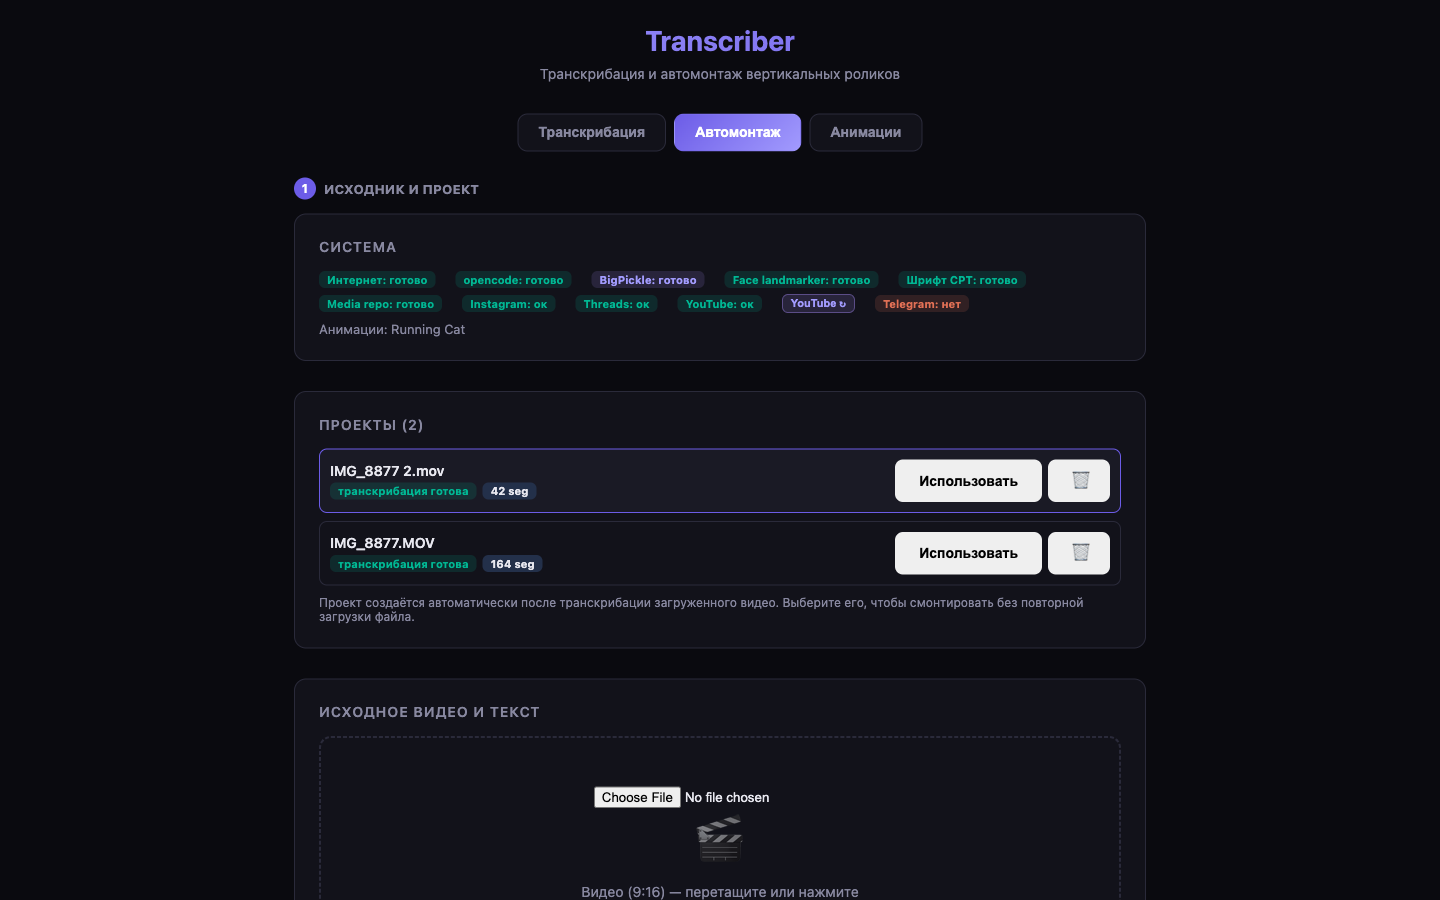
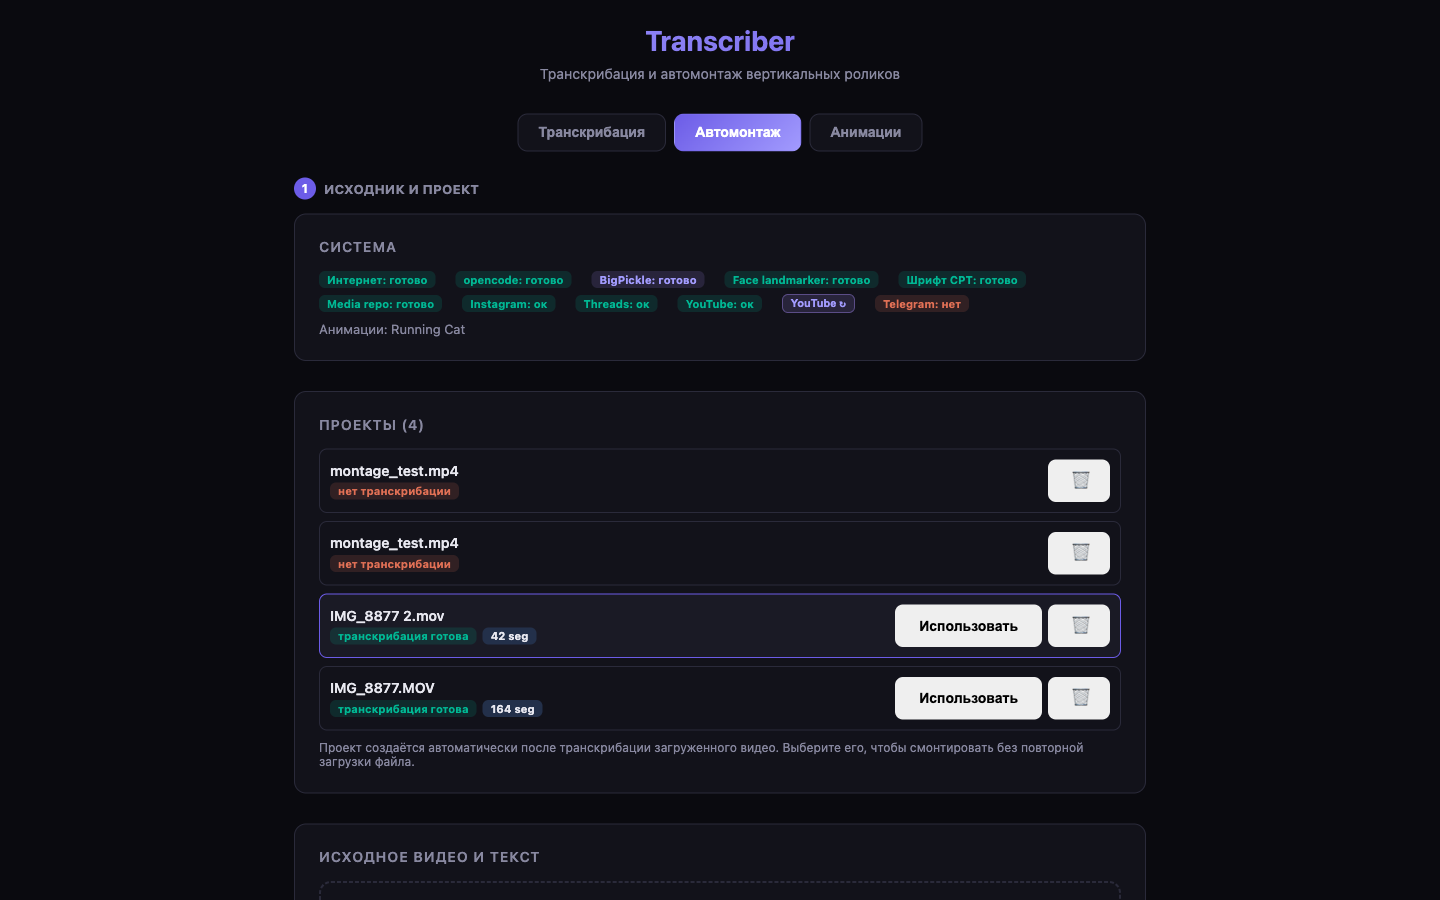
fix: phase-aware восстановление монтажа и общий прогресс без преждевременных 100%
- _finalize_montage_state(): синхронный терминальный переход (phase ready/ready_with_warnings,
  status done, progress 100). Общий прогресс достигает 100% только здесь.
- process_montage: на main_ready общий прогресс ограничен _MONTAGE_RENDER_PROGRESS_CAP (90),
  внутренний этап рендера может показывать 100%; фазы mirror/prepare/verify дают 93/96/98.
- _recover_montage_jobs: восстановление учитывает phase, mirror_variant и prepare_status.
  Прерванные mirror/prepare помечаются error + failed-снимок (без висящих running), готовые
  результаты сохраняются, полная готовность без запрошенных фаз не заявляется; добавлены
  фазовые предупреждения.
- Регрессионные тесты: перезапуск на main_ready/rendering_mirror/preparing_platform_variants/
  verifying_outputs; проверка прогресса < 100% на main_ready.

diff --git a/app.py b/app.py
@@ -1981,6 +1981,39 @@ def _recover_publish_outcomes(job: dict) -> None:
     job["publish_progress"] = progress
 
 
+_MONTAGE_RENDER_PROGRESS_CAP = 90.0
+
+
+def _finalize_montage_state(job: dict) -> list:
+    """Set the terminal unified-pipeline state on *job* (synchronous).
+
+    A failure of an optional phase (mirrored variant or platform preparation)
+    never hides the already-produced main result: it becomes a warning and the
+    job still reaches ``done`` so the main video stays usable (spec 4).  The
+    overall progress only reaches 100% here (spec 4), never at ``main_ready``.
+    Shared by the async ``_finalize_montage`` and server-restart recovery.
+    """
+    params = job.get("params") or {}
+    warnings = []
+    if params.get("prepare_mirrored") and not mirror_variant_ready(job):
+        reason = str((job.get("mirror_variant") or {}).get("error") or "").strip()
+        warnings.append("Отражённая версия не подготовлена" + (f": {reason}" if reason else ""))
+    if params.get("prepare_publish", True) and job.get("prepare_status") != "done":
+        reason = str(job.get("prepare_error") or "").strip()
+        label = (
+            "Подготовка файлов к публикации завершилась с ошибкой"
+            if reason else "Подготовка файлов к публикации не завершена"
+        )
+        warnings.append(label + (f": {reason}" if reason else ""))
+    job["warnings"] = warnings
+    job["phase"] = "ready_with_warnings" if warnings else "ready"
+    job["status"] = "done"
+    job["progress"] = 100
+    job["stage"] = "done"
+    job["detail"] = "Готово с предупреждениями" if warnings else "Готово"
+    return warnings
+
+
 def _recover_montage_jobs() -> None:
     root = MONTAGE_WORK.resolve()
     workdirs = sorted(
@@ -2012,14 +2045,35 @@ def _recover_montage_jobs() -> None:
                     result_path = (job.get("result") or {}).get("result_video")
                     has_result = bool(result_path) and Path(str(result_path)).is_file()
                     if has_result:
-                        # The render finished; publication (if any) was interrupted.
-                        job["status"] = "done"
-                        job["stage"] = "done"
-                        job["detail"] = "Публикация прервана перезапуском сервера"
+                        # The main render finished.  The unified pipeline may have
+                        # been interrupted inside an optional phase (mirrored
+                        # variant / platform preparation).  Mark only the
+                        # interrupted sub-operation as failed, keep every ready
+                        # artefact, and let ``_finalize_montage_state`` decide
+                        # readiness with warnings -- never claim full readiness
+                        # while a requested phase is incomplete (task: recovery
+                        # must be phase-aware, not result-video-only).
+                        mirror_state = job.get("mirror_variant")
+                        if isinstance(mirror_state, dict) and mirror_state.get("status") == "generating":
+                            mirror_msg = "Подготовка отражённой версии прервана перезапуском сервера"
+                            mirror_state = dict(mirror_state)
+                            mirror_state.update(status="error", error=mirror_msg, detail=mirror_msg)
+                            mirror_state["operation"] = failed_snapshot(mirror_state.get("operation"), mirror_msg)
+                            job["mirror_variant"] = mirror_state
+                        if job.get("prepare_status") == "running":
+                            prep_msg = "Подготовка файлов к публикации прервана перезапуском сервера"
+                            job["prepare_status"] = "error"
+                            job["prepare_error"] = prep_msg
+                            prepare_op = job.get("prepare_operation")
+                            if isinstance(prepare_op, dict):
+                                job["prepare_operation"] = failed_snapshot(prepare_op, prep_msg)
                         operation = job.get("operation")
                         if isinstance(operation, dict) and operation.get("status") in {"running", "pending"}:
                             job["operation"] = failed_snapshot(operation, message)
                         _recover_publish_outcomes(job)
+                        _finalize_montage_state(job)
+                        if job.get("publish_status") or job.get("publish_errors") or job.get("publish_unknown"):
+                            job["detail"] = "Публикация прервана перезапуском сервера"
                         _run_cleanup_safely(_cleanup_render_artifacts, recovered_id, job)
                         if not job.get("publish_errors") and not job.get("publish_unknown"):
                             _run_cleanup_safely(_cleanup_publish_artifacts, recovered_id, job)
@@ -2167,22 +2221,7 @@ async def _finalize_montage(job_id: str) -> None:
         return
     if job.get("status") == "error":
         return
-    params = job.get("params") or {}
-    warnings = []
-    if params.get("prepare_mirrored") and not mirror_variant_ready(job):
-        reason = str((job.get("mirror_variant") or {}).get("error") or "").strip()
-        warnings.append("Отражённая версия не подготовлена" + (f": {reason}" if reason else ""))
-    if params.get("prepare_publish", True) and job.get("prepare_status") == "error":
-        reason = str(job.get("prepare_error") or "").strip()
-        warnings.append(
-            "Подготовка файлов к публикации завершилась с ошибкой" + (f": {reason}" if reason else "")
-        )
-    job["warnings"] = warnings
-    job["phase"] = "ready_with_warnings" if warnings else "ready"
-    job["status"] = "done"
-    job["progress"] = 100
-    job["stage"] = "done"
-    job["detail"] = "Готово с предупреждениями" if warnings else "Готово"
+    warnings = _finalize_montage_state(job)
     _save_montage_job(job_id)
     await broadcast_progress(job_id, 100, "done", job["detail"])
     if warnings:
@@ -2196,7 +2235,14 @@ async def process_montage(job_id: str, params: dict):
     loop = asyncio.get_running_loop()
     try:
         job["status"] = "processing"
-        progress = _threaded_progress(loop, job_id)
+        raw_progress = _threaded_progress(loop, job_id)
+
+        def progress(pct, stage, detail=""):
+            # Reserve headroom for the automatic phases that follow the main
+            # render (mirroring / platform preparation): the overall job only
+            # reaches 100% in ``_finalize_montage`` (spec 4).
+            capped = min(max(float(pct or 0), 0.0), _MONTAGE_RENDER_PROGRESS_CAP)
+            raw_progress(capped, stage, detail)
 
         await _montage_announce(job_id, "Проверка установленных компонентов...")
         status = montage_engine.montage_status()
@@ -2287,13 +2333,16 @@ async def process_montage(job_id: str, params: dict):
         # prematurely (spec section 4).  The main MP4 is already available.
         job["status"] = "processing"
         job["phase"] = "main_ready"
-        job["progress"] = 100
+        # The overall job must NOT reach 100% while the mirrored variant and the
+        # platform preparation still run; only ``_finalize_montage`` may do that
+        # (spec 4).  The internal main-render stage may still show 100%.
+        job["progress"] = _MONTAGE_RENDER_PROGRESS_CAP
         job["stage"] = "main_ready"
         job["detail"] = "Основной ролик готов"
         job["result"] = meta
         _save_montage_job(job_id)
         _run_cleanup_safely(_cleanup_render_artifacts, job_id, job)
-        await broadcast_progress(job_id, 100, "main_ready", "Основной ролик готов")
+        await broadcast_progress(job_id, _MONTAGE_RENDER_PROGRESS_CAP, "main_ready", "Основной ролик готов")
         await _montage_announce(job_id, f"Основной ролик готов: {Path(meta['result_video']).name} ({(os.path.getsize(meta['result_video']) >> 20)} МБ)")
     except Exception as e:
         job["status"] = "error"
@@ -2980,11 +3029,13 @@ async def start_montage(
             job["phase"] = "rendering_mirror"
             _save_montage_job(job_id)
             if not mirror_variant_ready(job):
+                await broadcast_progress(job_id, 93, "rendering_mirror", "Подготовка отражённой версии")
                 await process_mirror_variant(job_id)
         # ---- Phase C: platform-ready artefacts (automatic) ----
         if params.get("prepare_publish", True):
             job["phase"] = "preparing_platform_variants"
             _save_montage_job(job_id)
+            await broadcast_progress(job_id, 96, "preparing_platform_variants", "Подготовка файлов к публикации")
             try:
                 await process_prepare_publish(
                     job_id, _default_prepare_targets(job)
@@ -2995,6 +3046,7 @@ async def start_montage(
         # ---- Phase D: verify and finalize (no premature done) ----
         job["phase"] = "verifying_outputs"
         _save_montage_job(job_id)
+        await broadcast_progress(job_id, 98, "verifying_outputs", "Проверка результатов")
         await _finalize_montage(job_id)
 
     asyncio.create_task(_run_montage_then_variant())

diff --git a/test_operation_recovery.py b/test_operation_recovery.py
@@ -175,6 +175,93 @@ class OperationRecoveryTest(unittest.TestCase):
         self.assertEqual(job["status"], "done")
         self.assertEqual(job["operation"]["status"], "completed")
 
+    def test_restart_at_main_ready_reports_warnings_not_full_readiness(self):
+        (self.workdir / "final.mp4").write_bytes(b"v")
+        self._write_state(
+            status="processing",
+            phase="main_ready",
+            stage="main_ready",
+            detail="Основной ролик готов",
+            params={"prepare_publish": True, "prepare_mirrored": True},
+            prepare_status="idle",
+            mirror_variant=None,
+            last_publish_targets=[],
+        )
+        app_module._recover_montage_jobs()
+        job = app_module.jobs.get(self.job_id)
+        self.assertEqual(job["status"], "done")
+        self.assertEqual(job["phase"], "ready_with_warnings")
+        joined = " ".join(job["warnings"])
+        self.assertIn("Отражённая версия", joined)
+        self.assertIn("не завершена", joined)
+        self.assertEqual(job["progress"], 100)
+        self.assertNotIn((job.get("operation") or {}).get("status"), {"running", "pending"})
+
+    def test_restart_during_mirror_marks_variant_interrupted(self):
+        (self.workdir / "final.mp4").write_bytes(b"v")
+        self._write_state(
+            status="processing",
+            phase="rendering_mirror",
+            params={"prepare_publish": True, "prepare_mirrored": True},
+            prepare_status="idle",
+            mirror_variant={
+                "status": "generating",
+                "operation": {"status": "running", "progress": 30, "stages": []},
+            },
+            last_publish_targets=[],
+        )
+        app_module._recover_montage_jobs()
+        job = app_module.jobs.get(self.job_id)
+        self.assertEqual(job["mirror_variant"]["status"], "error")
+        self.assertIn("прерван", job["mirror_variant"]["error"].lower())
+        self.assertEqual(job["mirror_variant"]["operation"]["status"], "failed")
+        self.assertEqual(job["phase"], "ready_with_warnings")
+        self.assertEqual(job["status"], "done")
+
+    def test_restart_during_preparation_marks_prepare_interrupted(self):
+        (self.workdir / "final.mp4").write_bytes(b"v")
+        self._write_state(
+            status="processing",
+            phase="preparing_platform_variants",
+            params={"prepare_publish": True, "prepare_mirrored": False},
+            prepare_status="running",
+            prepare_operation={
+                "version": 4,
+                "status": "running",
+                "progress": 50,
+                "stages": [
+                    {"key": "video:instagram:main", "label": "Видео", "status": "running", "progress": 50},
+                ],
+            },
+            last_publish_targets=[],
+        )
+        app_module._recover_montage_jobs()
+        job = app_module.jobs.get(self.job_id)
+        self.assertEqual(job["prepare_status"], "error")
+        self.assertIn("прерван", job["prepare_error"].lower())
+        self.assertEqual(job["prepare_operation"]["status"], "failed")
+        self.assertEqual(job["phase"], "ready_with_warnings")
+        self.assertEqual(job["status"], "done")
+        running = [s for s in job["prepare_operation"]["stages"] if s["status"] == "running"]
+        self.assertEqual(running, [])
+
+    def test_restart_after_completed_preparation_is_clean(self):
+        (self.workdir / "final.mp4").write_bytes(b"v")
+        self._write_state(
+            status="processing",
+            phase="verifying_outputs",
+            params={"prepare_publish": True, "prepare_mirrored": False},
+            prepare_status="done",
+            mirror_variant=None,
+            last_publish_targets=[],
+        )
+        app_module._recover_montage_jobs()
+        job = app_module.jobs.get(self.job_id)
+        self.assertEqual(job["status"], "done")
+        self.assertEqual(job["phase"], "ready")
+        self.assertEqual(job["warnings"], [])
+        self.assertEqual(job["progress"], 100)
+
 
 if __name__ == "__main__":
     unittest.main()

diff --git a/test_montage_cleanup.py b/test_montage_cleanup.py
@@ -199,6 +199,8 @@ class MontageCleanupTests(unittest.TestCase):
 
         self.assertEqual(job["status"], "processing")
         self.assertEqual(job["phase"], "main_ready")
+        self.assertLess(job["progress"], 100)
+        self.assertEqual(job["progress"], app._MONTAGE_RENDER_PROGRESS_CAP)
         self.assertFalse((workdir / "normalized_source.mp4").exists())
         saved = json.loads((workdir / "job_state.json").read_text(encoding="utf-8"))
         self.assertEqual(saved["status"], "processing")
@@ -237,6 +239,7 @@ class MontageCleanupTests(unittest.TestCase):
 
         self.assertEqual(job["status"], "processing")
         self.assertEqual(job["phase"], "main_ready")
+        self.assertLess(job["progress"], 100)
         self.assertIsNone(job["error"])
         self.assertIn("cleanup crashed", (workdir / "cleanup.log").read_text(encoding="utf-8"))
 
